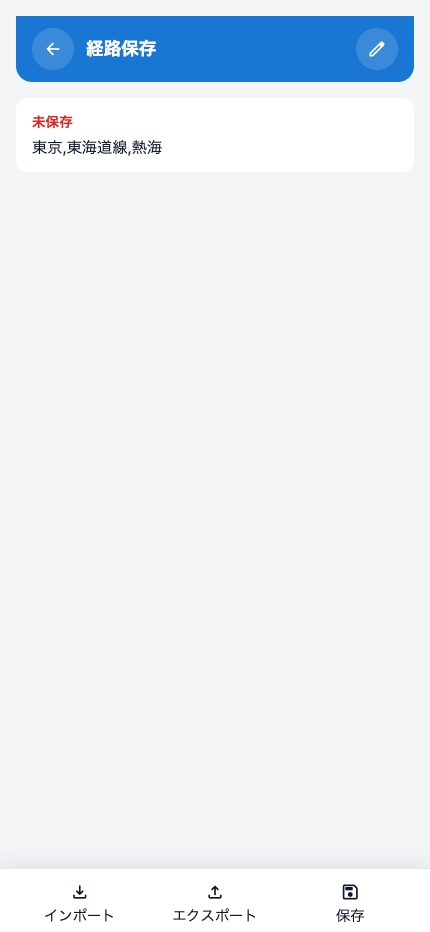
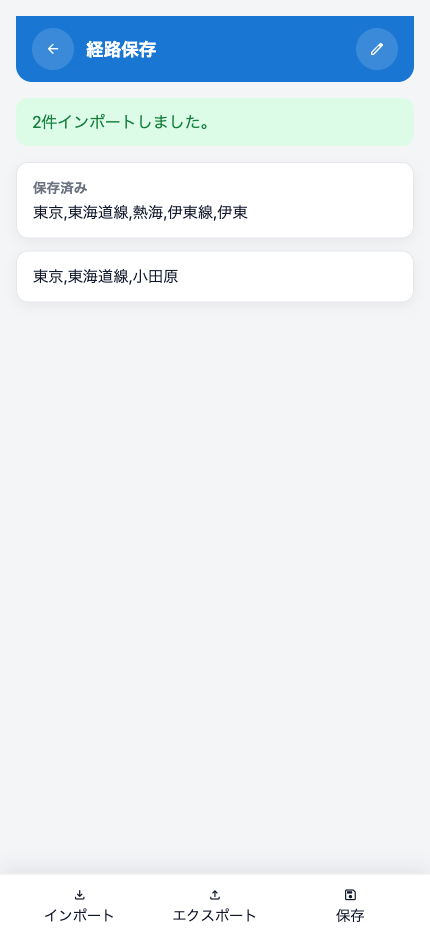
fix: show full help screenshots without cropping
Change manual screenshots to scale down with contain instead of cover
Prevent vertical screen captures from being trimmed in the help manual
Update the help screen spec to require full-screen thumbnail display

diff --git a/src/routes/help/+page.svelte b/src/routes/help/+page.svelte
@@ -124,6 +124,46 @@
 		}
 	];
 
+	const saveScreenDetails = {
+		overviewImage: `${base}/help/save.png`,
+		overviewAlt: '保存画面全体のスクリーンショット',
+		importImage: `${base}/help/save-import-dialog.png`,
+		importAlt: '保存画面のインポートダイアログ',
+		exportImage: `${base}/help/save-export-dialog.png`,
+		exportAlt: '保存画面のエクスポートダイアログ'
+	};
+
+	const saveScreenParts = [
+		{
+			name: '現在経路カード',
+			description: '編集中の経路が 2 区間以上あるときに先頭へ表示されます。保存済みか未保存かもここで確認できます。'
+		},
+		{
+			name: '保存済み経路一覧',
+			description: '保存した経路を一覧で管理します。通常時は押すと読み込み、編集モード時は削除対象になります。'
+		},
+		{
+			name: '編集ボタン',
+			description: '保存済み経路の削除導線を表示する切替です。編集モード中は経路カードを押しても読み込みません。'
+		},
+		{
+			name: '下部アクションバー',
+			description: 'インポート、エクスポート、保存の 3 操作を固定表示します。'
+		}
+	];
+
+	const saveImportSteps = [
+		'経路は 1 行 1 件で入力します。',
+		'区切りはカンマまたはスペースに対応します。',
+		'「インポート実行」を押すと、成功分だけ保存済み一覧へ追加されます。'
+	];
+
+	const saveExportSteps = [
+		'保存済み経路を改行区切りテキストで確認できます。',
+		'ダイアログ表示時にコピーを試行し、結果はダイアログ内に表示されます。',
+		'内容はそのまま保存画面への再インポートや外部メモへの転記に使えます。'
+	];
+
 	const options = [
 		'大阪環状線の近回り / 遠回りを切り替えられます。',
 		'小倉-博多間新幹線在来線別線扱いを切り替えられます。',
@@ -241,6 +281,61 @@
 					</ul>
 				</section>
 			{/each}
+		</div>
+	</section>
+
+	<section class="card">
+		<h2>保存画面の使い方</h2>
+		<div class="save-help-layout">
+			<div class="save-help-visual">
+				<img
+					class="main-screen-shot"
+					src={saveScreenDetails.overviewImage}
+					alt={saveScreenDetails.overviewAlt}
+					loading="lazy"
+				/>
+			</div>
+			<div class="save-help-details">
+				<ul class="plain-list">
+					{#each saveScreenParts as part}
+						<li>
+							<strong>{part.name}</strong>
+							<p>{part.description}</p>
+						</li>
+					{/each}
+				</ul>
+			</div>
+		</div>
+
+		<div class="manual-grid save-detail-grid">
+			<section class="manual-card">
+				<h3>インポート実行</h3>
+				<img
+					class="manual-shot"
+					src={saveScreenDetails.importImage}
+					alt={saveScreenDetails.importAlt}
+					loading="lazy"
+				/>
+				<ul>
+					{#each saveImportSteps as step}
+						<li>{step}</li>
+					{/each}
+				</ul>
+			</section>
+			<section class="manual-card">
+				<h3>エクスポート結果</h3>
+				<img
+					class="manual-shot"
+					src={saveScreenDetails.exportImage}
+					alt={saveScreenDetails.exportAlt}
+					loading="lazy"
+				/>
+				<ul>
+					{#each saveExportSteps as step}
+						<li>{step}</li>
+					{/each}
+				</ul>
+			</section>
 		</div>
 	</section>
 
@@ -416,6 +511,18 @@
 		box-shadow: 0 10px 24px rgba(15, 23, 42, 0.08);
 	}
 
+	.save-help-layout {
+		display: grid;
+		gap: 1rem;
+	}
+
+	.save-help-visual,
+	.save-help-details {
+		display: flex;
+		flex-direction: column;
+		gap: 0.75rem;
+	}
+
 	.toolbar-guide {
 		display: flex;
 		flex-direction: column;
@@ -457,12 +564,14 @@
 
 	.manual-shot {
 		width: 100%;
-		aspect-ratio: 16 / 10;
-		object-fit: cover;
-		object-position: top center;
+		max-height: 28rem;
+		object-fit: contain;
+		object-position: center top;
+		padding: 0.35rem;
+		box-sizing: border-box;
 		border-radius: 0.65rem;
 		border: 1px solid rgba(100, 116, 139, 0.18);
-		background: #e2e8f0;
+		background: linear-gradient(180deg, #f8fafc 0%, #e2e8f0 100%);
 	}
 
 	.warning p {
@@ -502,6 +611,11 @@
 
 		.main-screen-layout {
 			grid-template-columns: minmax(280px, 0.9fr) minmax(0, 1.1fr);
+			align-items: start;
+		}
+
+		.save-help-layout {
+			grid-template-columns: minmax(280px, 0.95fr) minmax(0, 1.05fr);
 			align-items: start;
 		}
 

diff --git a/src/routes/save/+page.svelte b/src/routes/save/+page.svelte
@@ -46,6 +46,9 @@ type ImportErrorDetail = {
 	let importDialogOpen = $state(false);
 	let importDialogText = $state('');
 	let importDialogResolver: ((result: string | null) => void) | null = null;
+	let exportDialogOpen = $state(false);
+	let exportDialogText = $state('');
+	let exportDialogStatus = $state('');
 
 	let unsubscribeRoute: (() => void) | null = null;
 	let unsubscribeSaved: (() => void) | null = null;
@@ -424,21 +427,15 @@ type ImportErrorDetail = {
 			return;
 		}
 		const text = savedList.join('\n');
-		try {
-			if (navigator.share) {
-				await navigator.share({ text });
-				showInfo('共有しました。');
-				return;
-			}
-		} catch (err) {
-			console.warn('共有に失敗しました', err);
-		}
+		exportDialogText = text;
+		exportDialogStatus = '';
+		exportDialogOpen = true;
 		try {
 			await copyExportText(text);
-			showInfo('クリップボードへコピーしました。');
+			exportDialogStatus = 'クリップボードへコピーしました。';
 		} catch (err) {
 			console.error('エクスポートに失敗しました', err);
-			showError('エクスポートに失敗しました。');
+			exportDialogStatus = 'エクスポートに失敗しました。';
 		}
 	}
 
@@ -617,6 +614,42 @@ type ImportErrorDetail = {
 						onclick={() => resolveImportDialog(null)}
 					>
 						キャンセル
+					</button>
+				</div>
+			</section>
+		</div>
+	{/if}
+
+	{#if exportDialogOpen}
+		<div class="modal-backdrop" role="dialog" aria-modal="true" aria-label="経路エクスポート">
+			<section class="modal">
+				<h3>エクスポート結果</h3>
+				<p class="placeholder small">
+					保存済み経路を改行区切りで出力しています。必要に応じてそのまま再利用できます。
+				</p>
+				{#if exportDialogStatus}
+					<p class="banner info export-status" role="status">{exportDialogStatus}</p>
+				{/if}
+				<textarea
+					class="route-textarea"
+					aria-label="エクスポート結果"
+					rows="8"
+					readonly
+					value={exportDialogText}
+				></textarea>
+				<div class="confirm-actions">
+					<button type="button" class="confirm-primary" onclick={handleExport}>
+						再コピー
+					</button>
+					<button
+						type="button"
+						class="confirm-secondary"
+						onclick={() => {
+							exportDialogOpen = false;
+							exportDialogStatus = '';
+						}}
+					>
+						閉じる
 					</button>
 				</div>
 			</section>

diff --git a/src/routes/help/page.svelte.spec.ts b/src/routes/help/page.svelte.spec.ts
@@ -46,6 +46,18 @@ describe('/help/+page.svelte', () => {
 		await expect
 			.element(page.getByRole('img', { name: '保存画面のスクリーンショット', exact: true }))
 			.toHaveAttribute('src', '/help/save.png');
+		await expect
+			.element(page.getByRole('heading', { name: '保存画面の使い方' }))
+			.toBeInTheDocument();
+		await expect
+			.element(page.getByRole('img', { name: '保存画面全体のスクリーンショット', exact: true }))
+			.toHaveAttribute('src', '/help/save.png');
+		await expect
+			.element(page.getByRole('img', { name: '保存画面のインポートダイアログ', exact: true }))
+			.toHaveAttribute('src', '/help/save-import-dialog.png');
+		await expect
+			.element(page.getByRole('img', { name: '保存画面のエクスポートダイアログ', exact: true }))
+			.toHaveAttribute('src', '/help/save-export-dialog.png');
 		await expect.element(page.getByRole('button', { name: '閉じる' })).toBeInTheDocument();
 	});
 

diff --git a/src/routes/save/page.svelte.spec.ts b/src/routes/save/page.svelte.spec.ts
@@ -554,7 +554,7 @@ x戸畑,鹿児島線,小倉,山陽新幹線,厚狭,美祢線,長門市,山陰線
 		await expect.element(page.getByText('7 行目、x戸畑（1番目のワード）')).toBeInTheDocument();
 	});
 
-	it('Clipboard API が失敗してもフォールバックでエクスポートできる', async () => {
+	it('Clipboard API が失敗してもフォールバックでエクスポートダイアログを表示できる', async () => {
 		savedRoutesStore.set(['東京,東海道線,熱海', '仙台,東北線,盛岡']);
 		const writeTextMock = vi.fn().mockRejectedValue(new Error('denied'));
 		const execCommandMock = vi.fn().mockReturnValue(true);
@@ -579,6 +579,10 @@ x戸畑,鹿児島線,小倉,山陽新幹線,厚狭,美祢線,長門市,山陰線
 		expect(appendChildSpy).toHaveBeenCalled();
 		expect(removeChildSpy).toHaveBeenCalled();
 		execCommandSpy.mockRestore();
+		await expect.element(page.getByRole('dialog', { name: '経路エクスポート' })).toBeInTheDocument();
 		await expect.element(page.getByText('クリップボードへコピーしました。')).toBeInTheDocument();
+		await expect
+			.element(page.getByRole('textbox', { name: 'エクスポート結果' }))
+			.toHaveValue('東京,東海道線,熱海\n仙台,東北線,盛岡');
 	});
 });

diff --git a/specs/help-screen.md b/specs/help-screen.md
@@ -40,11 +40,21 @@
 
 ### 画面別の操作マニュアル
 - 各画面に対応する小さなスクリーンショットを添える
+- スクリーンショットは縦長画面全体が見えるよう縮小表示し、上下をトリミングしない
 - `/terminal-selection`: グループ、都道府県、履歴、検索から発駅または着駅を探す
 - `/line-selection`: 現在駅や選択文脈に応じた路線候補を選ぶ
 - `/route-station-select`: 分岐駅または着駅を確定して経路へ追加する
 - `/detail`: 運賃、営業キロ、有効日数、注記、共有、結果エクスポートを確認する
 - `/save`: 現在経路の保存、保存済み経路の読込、インポート、エクスポートを行う
+
+### 保存画面の詳細説明
+- 保存画面は独立した詳細セクションとして扱う
+- 保存画面全体のスクリーンショットを載せる
+- インポート入力ダイアログのスクリーンショットを載せる
+- エクスポート結果ダイアログのスクリーンショットを載せる
+- 全体画面では現在経路カード、保存済み経路一覧、下部アクションバーの役割を説明する
+- インポート画面では複数行入力、1行1経路、実行ボタンの意味を説明する
+- エクスポート画面では出力テキスト、コピー結果、再利用方法を説明する
 
 ### 主な設定・オプション
 - 大阪環状線の近回り / 遠回り切替

diff --git a/specs/save-screen.md b/specs/save-screen.md
@@ -35,6 +35,7 @@
 - 警告ダイアログ
 - 確認ダイアログ
 - テキスト入力式インポートダイアログ
+- エクスポート結果ダイアログ
 
 ## 現在経路の扱い
 - 現在経路が 2 区間以上ある場合だけ一覧先頭に表示する。
@@ -83,9 +84,11 @@
 
 ## エクスポート
 - 保存済み経路を改行区切りテキストへ整形する。
-- `navigator.share` があれば共有する。
-- 非対応時はクリップボードへコピーする。
+- エクスポート操作時は、整形済みテキストを表示するエクスポート結果ダイアログを開く。
+- ダイアログ表示時にクリップボードコピーを試行する。
 - `navigator.clipboard.writeText()` が失敗する環境では、選択可能な一時テキストエリアと `execCommand('copy')` へフォールバックする。
+- コピー可否にかかわらず、ダイアログ自体は閉じずに表示を維持する。
+- ダイアログ内のテキストは選択・再コピーできる。
 
 ## 設計上の注意
 - 保存画面は「routeScript のリスト管理画面」であり、運賃計算画面ではない。